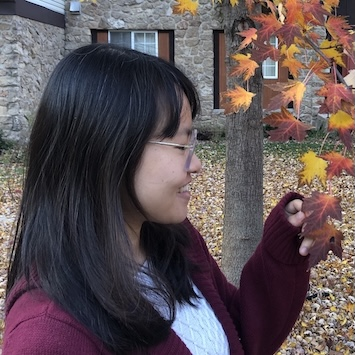
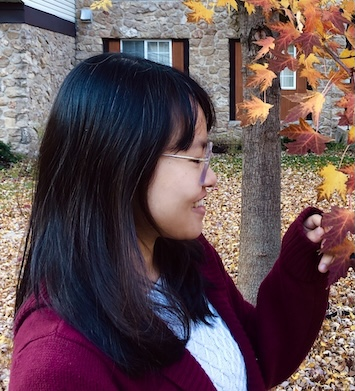
update

diff --git a/themes/HugoNarrow/layouts/_partials/layout/head.html b/themes/HugoNarrow/layouts/_partials/layout/head.html
@@ -3,7 +3,6 @@
   name="viewport"
   content="width=device-width, initial-scale=1, shrink-to-fit=no" />
 <meta http-equiv="X-UA-Compatible" content="IE=edge" />
-<meta name="google-site-verification" content="4Qrq0KOXD4Wcudxvh_WuC8o0SKstD7zy98gBwPdprTs" />
 <meta name="google-site-verification" content="CfroEw87nUma8yMX_HuBmkBUPfZtQSixxgJiyT0aCVo" />
 
 <title>{{- if .IsHome -}}{{ site.Title }}{{- else if .Title -}}{{ .Title }} | {{ site.Title }}{{- else -}}{{ site.Title }}{{- end -}}</title>

diff --git a/public/posts/2025/09/what-happened-when-i-deleted-my-facebook-and-instagram-app/index.html b/public/posts/2025/09/what-happened-when-i-deleted-my-facebook-and-instagram-app/index.html
@@ -8,7 +8,6 @@
   name="viewport"
   content="width=device-width, initial-scale=1, shrink-to-fit=no" />
 <meta http-equiv="X-UA-Compatible" content="IE=edge" />
-<meta name="google-site-verification" content="4Qrq0KOXD4Wcudxvh_WuC8o0SKstD7zy98gBwPdprTs" />
 <meta name="google-site-verification" content="CfroEw87nUma8yMX_HuBmkBUPfZtQSixxgJiyT0aCVo" />
 
 <title>What Happened When I Deleted My Facebook and Instagram App? | Alice Hsu&#39;s Blog</title>

diff --git a/public/zh-tw/posts/2025/09/刪掉-fb-與-ig-的我發生了什麼變化/index.html b/public/zh-tw/posts/2025/09/刪掉-fb-與-ig-的我發生了什麼變化/index.html
@@ -8,7 +8,6 @@
   name="viewport"
   content="width=device-width, initial-scale=1, shrink-to-fit=no" />
 <meta http-equiv="X-UA-Compatible" content="IE=edge" />
-<meta name="google-site-verification" content="4Qrq0KOXD4Wcudxvh_WuC8o0SKstD7zy98gBwPdprTs" />
 <meta name="google-site-verification" content="CfroEw87nUma8yMX_HuBmkBUPfZtQSixxgJiyT0aCVo" />
 
 <title>刪掉 FB 與 IG 的我，發生了什麼變化? | Alice Hsu&#39;s Blog</title>

diff --git a/public/posts/2025/10/free-online-music-theory-resources/index.html b/public/posts/2025/10/free-online-music-theory-resources/index.html
@@ -8,7 +8,6 @@
   name="viewport"
   content="width=device-width, initial-scale=1, shrink-to-fit=no" />
 <meta http-equiv="X-UA-Compatible" content="IE=edge" />
-<meta name="google-site-verification" content="4Qrq0KOXD4Wcudxvh_WuC8o0SKstD7zy98gBwPdprTs" />
 <meta name="google-site-verification" content="CfroEw87nUma8yMX_HuBmkBUPfZtQSixxgJiyT0aCVo" />
 
 <title>📚Free Online Music Theory Resources  | Alice Hsu&#39;s Blog</title>

diff --git a/public/zh-tw/posts/2025/10/免費學習樂理的線上資源/index.html b/public/zh-tw/posts/2025/10/免費學習樂理的線上資源/index.html
@@ -8,7 +8,6 @@
   name="viewport"
   content="width=device-width, initial-scale=1, shrink-to-fit=no" />
 <meta http-equiv="X-UA-Compatible" content="IE=edge" />
-<meta name="google-site-verification" content="4Qrq0KOXD4Wcudxvh_WuC8o0SKstD7zy98gBwPdprTs" />
 <meta name="google-site-verification" content="CfroEw87nUma8yMX_HuBmkBUPfZtQSixxgJiyT0aCVo" />
 
 <title>📚免費學習樂理的線上資源 | Alice Hsu&#39;s Blog</title>

diff --git a/public/posts/2025/10/the-story-behind-bell/index.html b/public/posts/2025/10/the-story-behind-bell/index.html
@@ -8,7 +8,6 @@
   name="viewport"
   content="width=device-width, initial-scale=1, shrink-to-fit=no" />
 <meta http-equiv="X-UA-Compatible" content="IE=edge" />
-<meta name="google-site-verification" content="4Qrq0KOXD4Wcudxvh_WuC8o0SKstD7zy98gBwPdprTs" />
 <meta name="google-site-verification" content="CfroEw87nUma8yMX_HuBmkBUPfZtQSixxgJiyT0aCVo" />
 
 <title>🔔 The Story Behind Bell | Alice Hsu&#39;s Blog</title>

diff --git a/public/zh-tw/posts/2025/10/bell-的創作歷程/index.html b/public/zh-tw/posts/2025/10/bell-的創作歷程/index.html
@@ -8,7 +8,6 @@
   name="viewport"
   content="width=device-width, initial-scale=1, shrink-to-fit=no" />
 <meta http-equiv="X-UA-Compatible" content="IE=edge" />
-<meta name="google-site-verification" content="4Qrq0KOXD4Wcudxvh_WuC8o0SKstD7zy98gBwPdprTs" />
 <meta name="google-site-verification" content="CfroEw87nUma8yMX_HuBmkBUPfZtQSixxgJiyT0aCVo" />
 
 <title>🔔 Bell 的創作歷程 | Alice Hsu&#39;s Blog</title>

diff --git a/public/404.html b/public/404.html
@@ -8,7 +8,6 @@
   name="viewport"
   content="width=device-width, initial-scale=1, shrink-to-fit=no" />
 <meta http-equiv="X-UA-Compatible" content="IE=edge" />
-<meta name="google-site-verification" content="4Qrq0KOXD4Wcudxvh_WuC8o0SKstD7zy98gBwPdprTs" />
 <meta name="google-site-verification" content="CfroEw87nUma8yMX_HuBmkBUPfZtQSixxgJiyT0aCVo" />
 
 <title>404 Page not found | Alice Hsu&#39;s Blog</title>

diff --git a/public/zh-tw/404.html b/public/zh-tw/404.html
@@ -8,7 +8,6 @@
   name="viewport"
   content="width=device-width, initial-scale=1, shrink-to-fit=no" />
 <meta http-equiv="X-UA-Compatible" content="IE=edge" />
-<meta name="google-site-verification" content="4Qrq0KOXD4Wcudxvh_WuC8o0SKstD7zy98gBwPdprTs" />
 <meta name="google-site-verification" content="CfroEw87nUma8yMX_HuBmkBUPfZtQSixxgJiyT0aCVo" />
 
 <title>404 Page not found | Alice Hsu&#39;s Blog</title>

diff --git a/public/categories/index.html b/public/categories/index.html
@@ -8,7 +8,6 @@
   name="viewport"
   content="width=device-width, initial-scale=1, shrink-to-fit=no" />
 <meta http-equiv="X-UA-Compatible" content="IE=edge" />
-<meta name="google-site-verification" content="4Qrq0KOXD4Wcudxvh_WuC8o0SKstD7zy98gBwPdprTs" />
 <meta name="google-site-verification" content="CfroEw87nUma8yMX_HuBmkBUPfZtQSixxgJiyT0aCVo" />
 
 <title>Categories | Alice Hsu&#39;s Blog</title>

diff --git a/public/zh-tw/categories/index.html b/public/zh-tw/categories/index.html
@@ -8,7 +8,6 @@
   name="viewport"
   content="width=device-width, initial-scale=1, shrink-to-fit=no" />
 <meta http-equiv="X-UA-Compatible" content="IE=edge" />
-<meta name="google-site-verification" content="4Qrq0KOXD4Wcudxvh_WuC8o0SKstD7zy98gBwPdprTs" />
 <meta name="google-site-verification" content="CfroEw87nUma8yMX_HuBmkBUPfZtQSixxgJiyT0aCVo" />
 
 <title>Categories | Alice Hsu&#39;s Blog</title>

diff --git a/public/portfolio/index.html b/public/portfolio/index.html
@@ -8,7 +8,6 @@
   name="viewport"
   content="width=device-width, initial-scale=1, shrink-to-fit=no" />
 <meta http-equiv="X-UA-Compatible" content="IE=edge" />
-<meta name="google-site-verification" content="4Qrq0KOXD4Wcudxvh_WuC8o0SKstD7zy98gBwPdprTs" />
 <meta name="google-site-verification" content="CfroEw87nUma8yMX_HuBmkBUPfZtQSixxgJiyT0aCVo" />
 
 <title>Portfolio | Alice Hsu&#39;s Blog</title>
